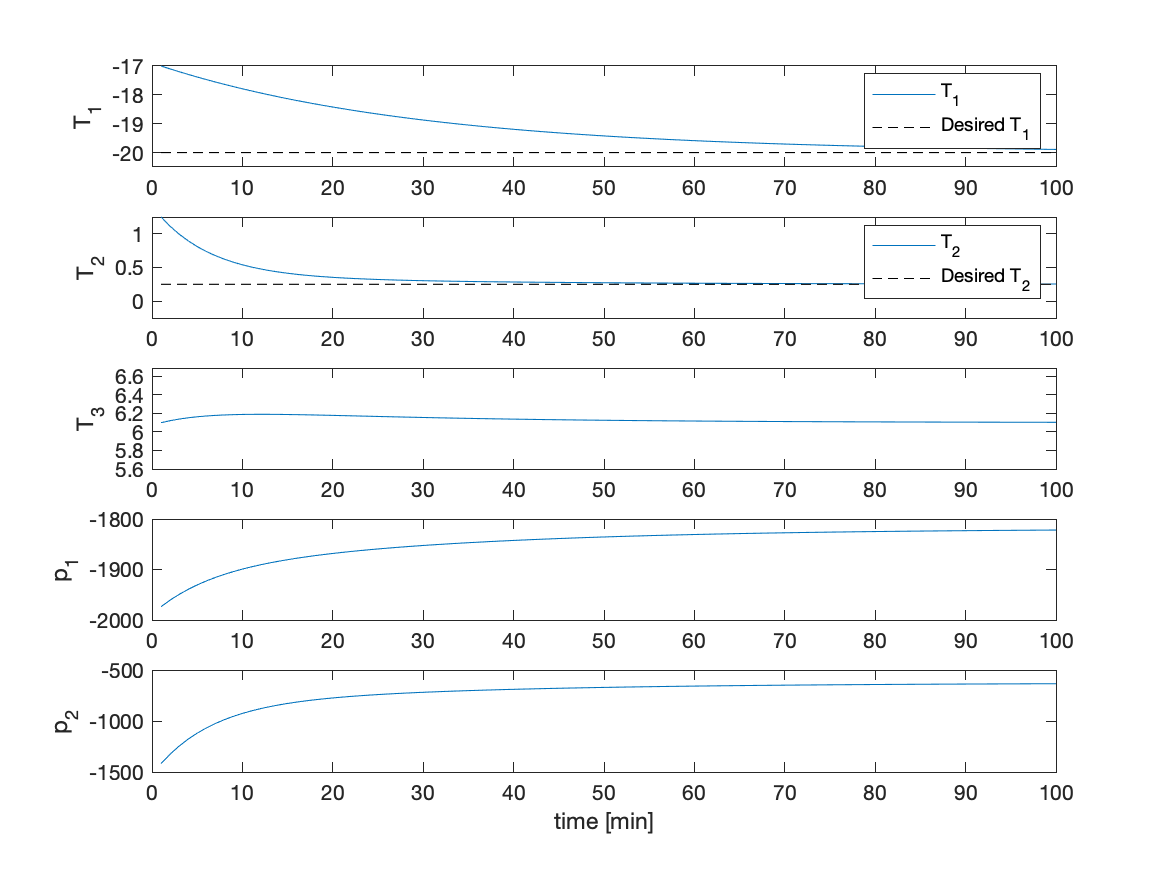
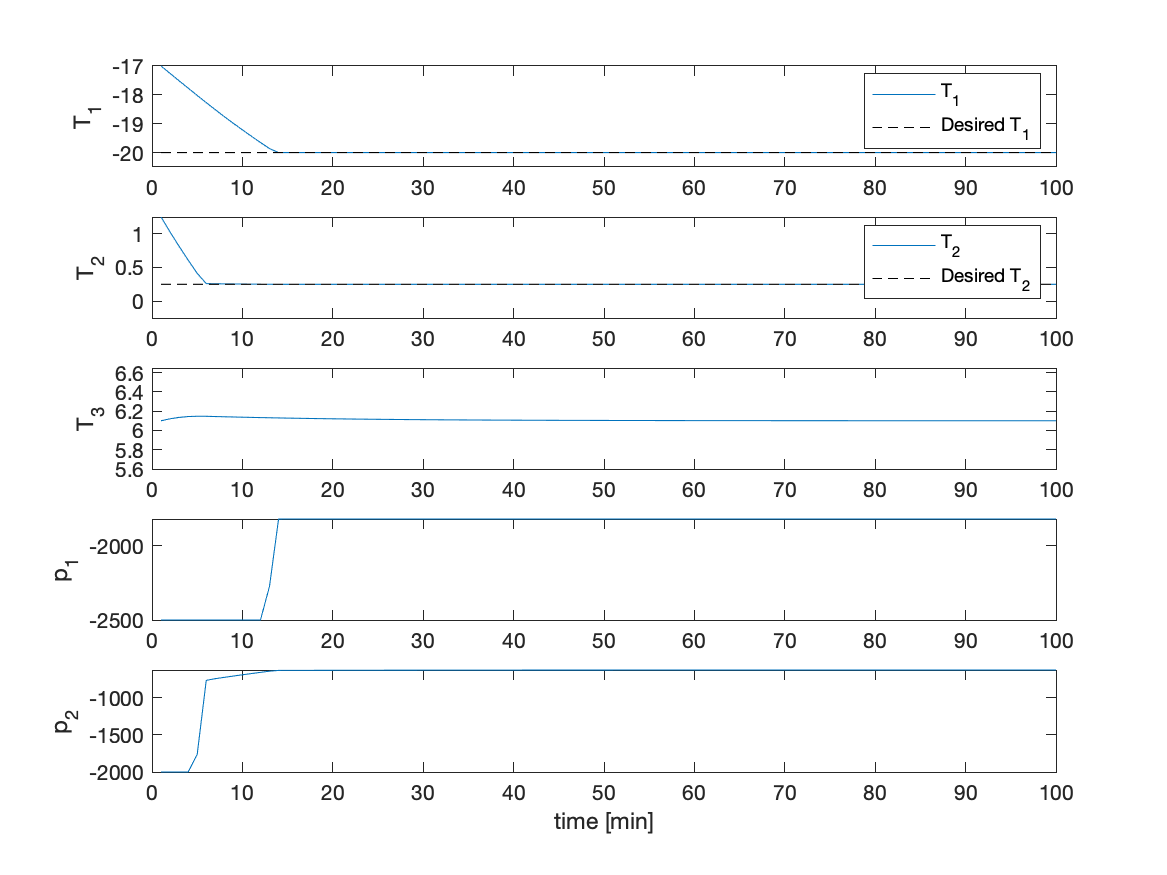
to 13 stable

diff --git a/run_simulations.m b/run_simulations.m
@@ -1,7 +1,6 @@
 %%%%%%%%%%%%%%%%%%%%%%%%%%%%%%%%%%%%%%%%%%%%%%%%%%%%%%%%%%%%%%%%%%%%%%%%%%%
 % Simulation - Main. 
 %%%%%%%%%%%%%%%%%%%%%%%%%%%%%%%%%%%%%%%%%%%%%%%%%%%%%%%%%%%%%%%%%%%%%%%%%%%
-% Initialization. 
 clc; clear all; close all; %#ok<CLALL>
 addpath(genpath(cd));
 load('system/parameters_scenarios.mat');
@@ -13,28 +12,35 @@ system_params = compute_controller_base_parameters;
 T0_1 = system_params.T_sp + [3;1;0]; 
 T0_2 = system_params.T_sp + [-1.0;-0.1;-4.5]; 
 
-%% LQR simulation.
-clear controller_lqr; 
+%% LQR simulation - Scenario I1. 
+disp("LQR simulation - scenario: I, init: I")
 [T, p] = simulate_truck(T0_1, @controller_lqr,scen1);
 print('outs/lqr_scen1_to1','-dpng')
-
 clear controller_lqr; 
+
+%% LQR simulation - Scenario II2. 
+disp("LQR simulation - scenario: II, init: II")
 [T, p] = simulate_truck(T0_2, @controller_lqr,scen2);
 print('outs/lqr_scen2_to2','-dpng')
+clear controller_lqr; 
 
 %% LQR - Invariant set. 
 [A_x, b_x] = compute_X_LQR(); 
 
-%% MPC1 simulation - Scenario I. 
-clear yalmip_optimizer; 
+%% MPC1 simulation - Scenario I1. 
+disp("MPC 1 simulation - scenario: I, init: I")
 [T, p] = simulate_truck(T0_1, @controller_mpc_1,scen1);
 print('outs/mpc_1_scen1_to1','-dpng')
+clear controller_mpc_1;  
 
-clear yalmip_optimizer; 
+%% MPC1 simulation - Scenario I2. 
+disp("MPC 1 simulation - scenario: I, init: II")
 [T, p] = simulate_truck(T0_2, @controller_mpc_1,scen1);
 print('outs/mpc_1_scen1_to2','-dpng')
+clear controller_mpc_1; 
 
 %% MPC2 simulation - Scenario I. 
-clear yalmip_optimizer; 
+disp("MPC 2 simulation - scenario: I, init: I")
 [T, p] = simulate_truck(T0_1, @controller_mpc_2,scen1);
 print('outs/mpc_2_scen1_to1','-dpng')
+clear controller_mpc_2; 

diff --git a/controller_mpc_2.m b/controller_mpc_2.m
@@ -9,8 +9,10 @@ function p = controller_mpc_2(T)
 % controller variables
 persistent param yalmip_optimizer
 % initialize controller, if not done already
+is_first_step = false; 
 if isempty(param)
     [param, yalmip_optimizer] = init();
+    is_first_step = true; 
 end
 % normalize state. 
 x = T - param.T_sp; 
@@ -18,6 +20,11 @@ x = T - param.T_sp;
 [u_mpc,errorcode] = yalmip_optimizer(x); 
 if (errorcode ~= 0)
       warning('MPC infeasible');
+end
+% determine cost. 
+if is_first_step
+    J = compute_mpc_cost(x, u_mpc, zeros(3,3), param); 
+    disp(["J(x(0)) = ", num2str(J)]); 
 end
 % denormalize control input.
 p = u_mpc(:,1) + param.p_sp;
@@ -49,12 +56,13 @@ for k = 2:N-1
                    Ucons(:,1)<=U{k}<=Ucons(:,2); 
                    Xcons(:,1)<=X{k}<=Xcons(:,2)]; %#ok<AGROW>
     objective = objective + X{k}'*Q*X{k} + U{k}'*R*U{k};
-end
-objective = objective + X{N}'*Q*X{N};
-constraints = [constraints; X{N} == 0]; 
+end 
+constraints = [constraints; X{N} == 0];
 % initialize (yalmip) mpc problem. 
 ops = sdpsettings('verbose',0,'solver','quadprog');
 yalmip_optimizer = optimizer(constraints,objective,ops,X{1},[U{:}]);
+% initialize helper vars. 
+param.is_first_step = true; 
 end
 
 % Given that x(0) is in the feasible set, initialized with x(0) the closed-

diff --git a/controller_mpc_1.m b/controller_mpc_1.m
@@ -9,8 +9,10 @@ function p = controller_mpc_1(T)
 % controller variables
 persistent param yalmip_optimizer
 % initialize controller, if not done already
+is_first_step = false; 
 if isempty(param)
     [param, yalmip_optimizer] = init();
+    is_first_step = true; 
 end
 % normalize state. 
 x = T - param.T_sp; 
@@ -18,6 +20,11 @@ x = T - param.T_sp;
 [u_mpc,errorcode] = yalmip_optimizer(x); 
 if (errorcode ~= 0)
       warning('MPC infeasible');
+end
+% determine cost. 
+if is_first_step
+    J = compute_mpc_cost(x, u_mpc, param.P_inf, param); 
+    disp(["J(x(0)) = ", num2str(J)]); 
 end
 % denormalize control input.
 p = u_mpc(:,1) + param.p_sp;
@@ -50,7 +57,9 @@ for k = 2:N-1
                    Xcons(:,1)<=X{k}<=Xcons(:,2)]; %#ok<AGROW>
     objective = objective + X{k}'*Q*X{k} + U{k}'*R*U{k};
 end
-objective = objective + X{N}'*Q*X{N};
+[~,P_inf,~] = dlqr(A,B,Q,R);
+objective = objective + X{N}'*P_inf*X{N};
+param.P_inf = P_inf; 
 % initialize (yalmip) mpc problem. 
 ops = sdpsettings('verbose',0,'solver','quadprog');
 yalmip_optimizer = optimizer(constraints,objective,ops,X{1},[U{:}]);

diff --git a/compute_mpc_cost.m b/compute_mpc_cost.m
@@ -1,0 +1,21 @@
+%%%%%%%%%%%%%%%%%%%%%%%%%%%%%%%%%%%%%%%%%%%%%%%%%%%%%%%%%%%%%%%%%%%%%%%%%%%
+% MPC cost calculation
+%%%%%%%%%%%%%%%%%%%%%%%%%%%%%%%%%%%%%%%%%%%%%%%%%%%%%%%%%%%%%%%%%%%%%%%%%%%
+% INPUT:
+%   x0: Initial state, dimension (3,1)
+%   U:  Set of n subsequent inputs (n,2). 
+%   P:  Terminal cost matrix. 
+%   params:  Parameters (assumed to contain A,B,Q,R). 
+% OUTPUT:
+%   J:  Absolute cost. 
+function J = compute_mpc_cost(x0,U,P,params)
+N = size(U,2) + 1; 
+A = params.A; B = params.B; Q = params.Q; R = params.R; 
+J = 0; 
+x = x0;
+for k = 1:N-1
+    J = J + x'*Q*x + U(:,k)'*R*U(:,k); 
+    x = A*x + B*U(:,k); 
+end
+J = J + x'*P*x; 
+end

diff --git a/compute_controller_base_parameters.m b/compute_controller_base_parameters.m
@@ -47,7 +47,7 @@ function param = compute_controller_base_parameters
     
     % (5) LQR cost function
     Q = diag([1e3,1e3,0]); %state weight. 
-    R = diag([1e-4,1e-4]); %input weight.  
+    R = diag([1,1]); %input weight.  
     
     % put everything together
     param.A = A;
